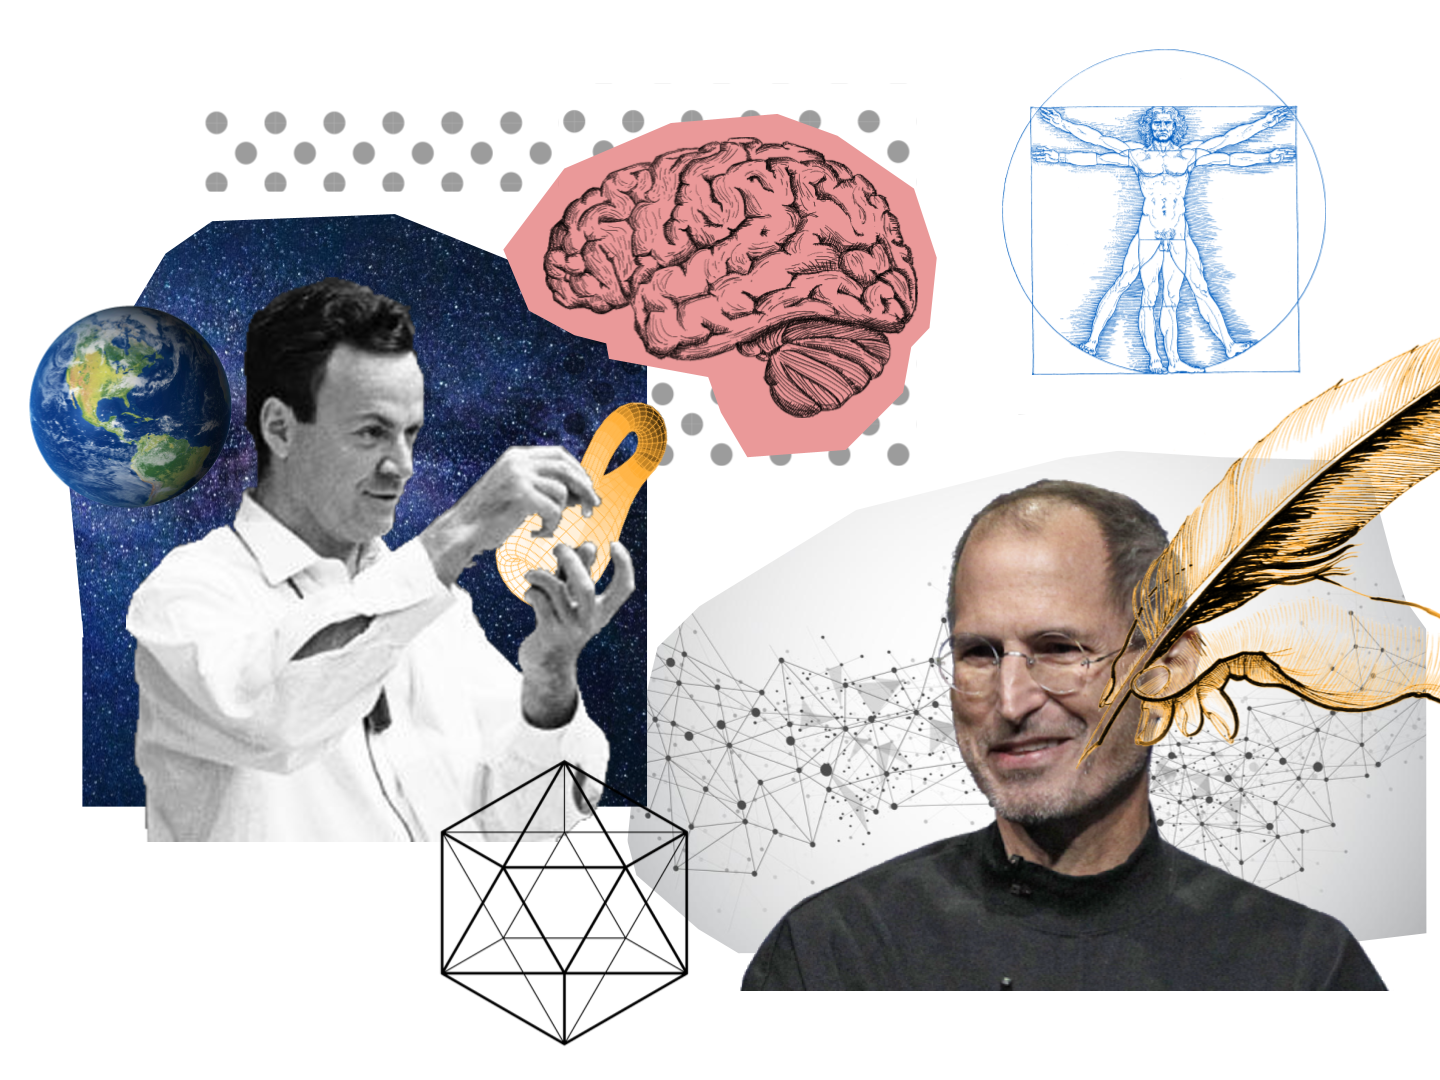
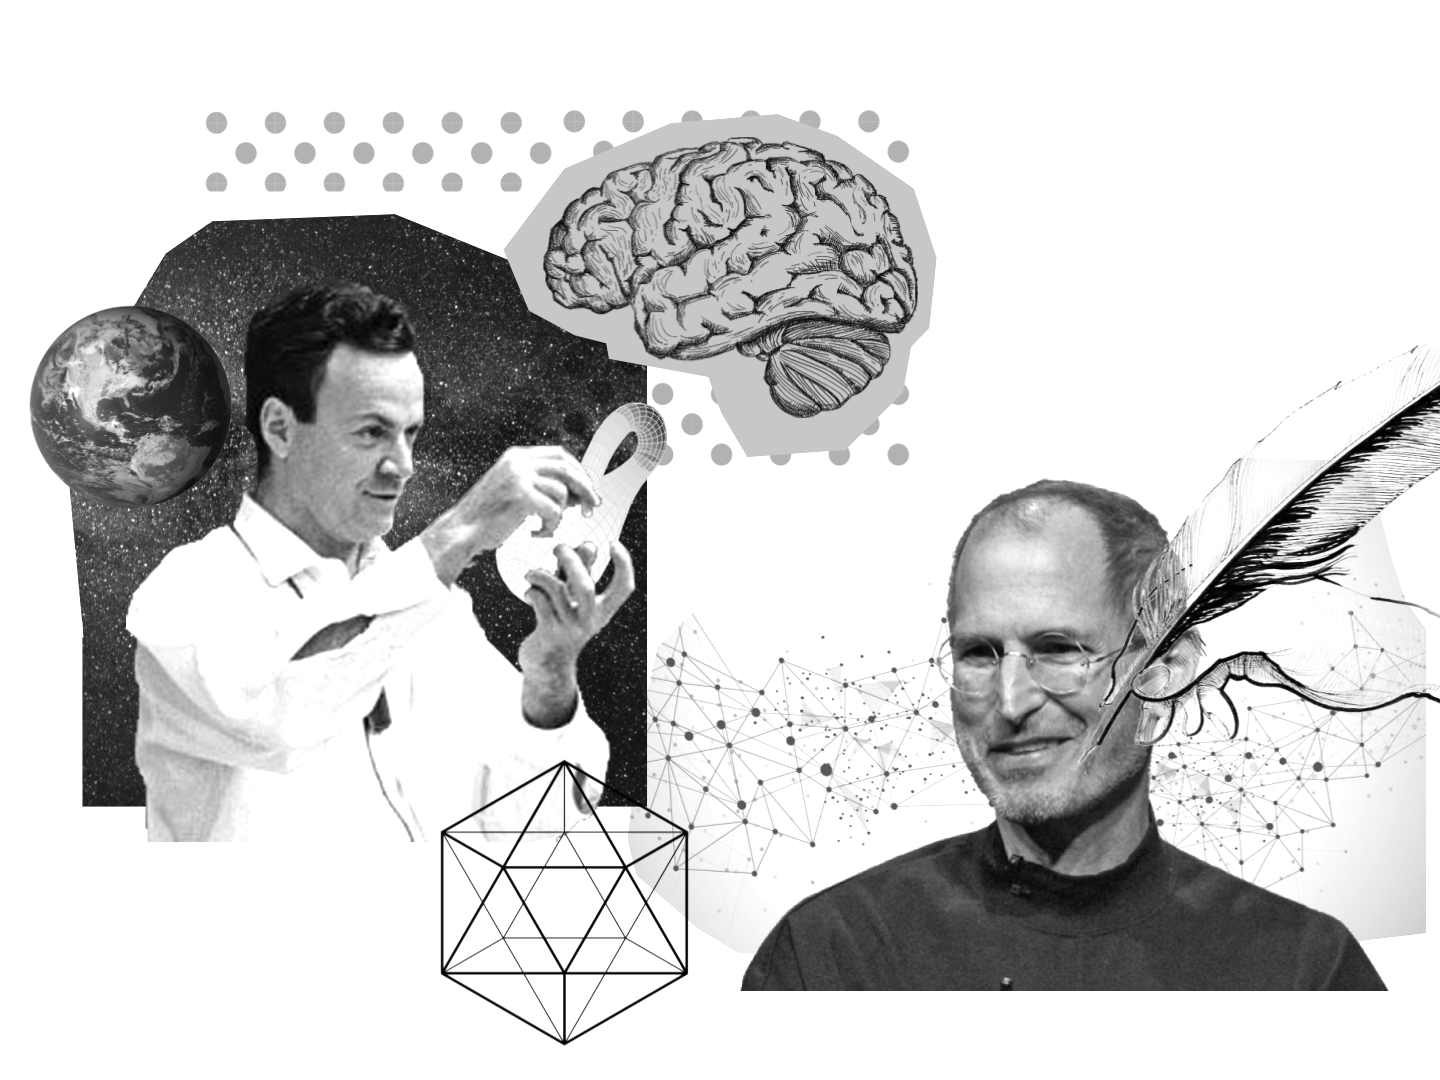
index.html changes

diff --git a/index.html b/index.html
@@ -9,7 +9,7 @@
     <!-- ===============================================-->
     <!--    Document Title-->
     <!-- ===============================================-->
-    <title>Change | Landing, Corporate &amp; Business Templatee</title>
+    <title>ShouldersOfGiants | Home</title>
 
     <!-- ===============================================-->
     <!--    Favicons-->
@@ -39,14 +39,12 @@
             <ul class="navbar-nav me-auto mb-2 mb-lg-0">
               <li class="nav-item px-2"><a class="nav-link fw-medium active" aria-current="page" href="#header">Home</a></li>
               <li class="nav-item px-2"><a class="nav-link fw-medium" href="generate.html">Try it</a></li>
-         
             </ul>
-            <form class="d-flex"><button class="btn btn-lg btn-dark bg-gradient order-0" type="submit">Sign Up</button></form>
           </div>
         </div>
       </nav>
       <section class="py-0" id="header">
-        <div class="bg-holder d-none d-md-block" style="background-image:url(assets/img/illustrations/hero-header.png);background-position:right top;background-size:contain;"></div>
+        <div class="bg-holder d-none d-md-block" style="background-image:url(assets/img/illustrations/hero-header-3.png);background-position:right top;background-size:contain;"></div>
         <!--/.bg-holder-->
         <div class="bg-holder d-md-none" style="background-image:url(assets/img/illustrations/hero-bg.png);background-position:right top;background-size:contain;"></div>
         <!--/.bg-holder-->
@@ -65,8 +63,8 @@
         <div class="container">
           <div class="row">
             <div class="col-lg-9 mx-auto text-center mb-3">
-              <h5 class="fw-bold fs-3 fs-lg-5 lh-sm mb-3">New Opportunities</h5>
-              <p class="mb-5">We are the first and the only crowdfunding platform enabling you to help finance our farmers.</p>
+              <h5 class="fw-bold fs-3 fs-lg-5 lh-sm mb-3">Learn from The Giants</h5>
+              <p class="mb-5">Get answers to your greatest questions from the giants that have lived through history.</p>
             </div>
           </div>
           <div class="row flex-center h-100">
